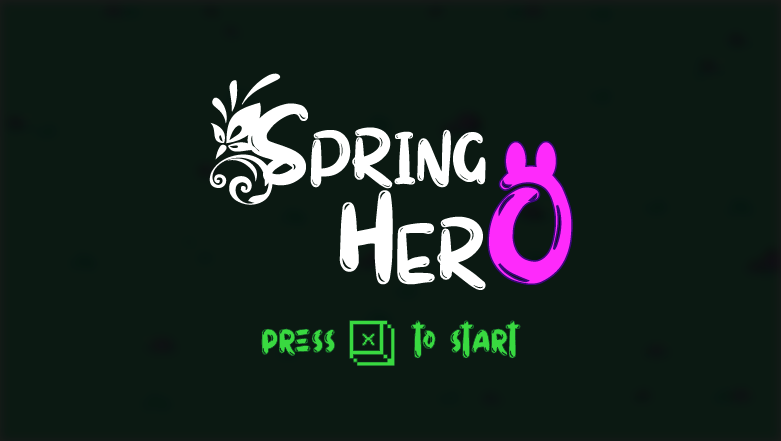
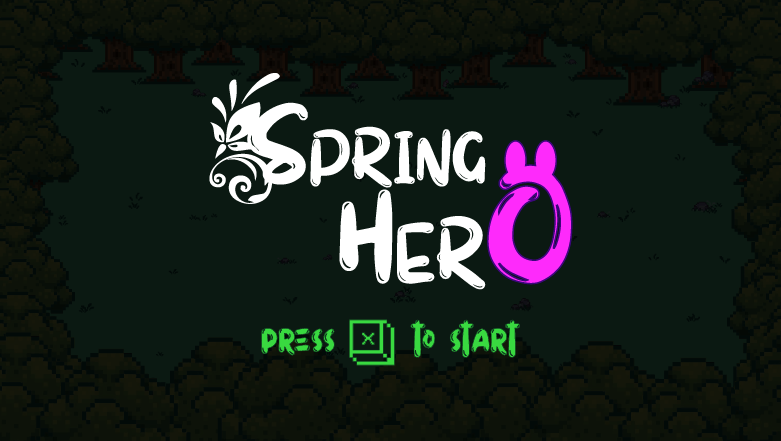
Assets Updated & AttackObject Deleted
- Code reformatted

diff --git a/src/springhero/models/hero/Hero.java b/src/springhero/models/hero/Hero.java
@@ -89,46 +89,40 @@ public class Hero implements Constants, Observable {
             }
         }
     }
-    public boolean attackSprite(Map map,view direction, List<Enemy> enemyList){
-        ImageIcon icon = new ImageIcon();
-        Point detectAttack = new Point(0,0);
 
+    public boolean attack(Map map, view direction, List<Enemy> enemyList) {
+        ImageIcon icon = new ImageIcon();
+        Point detectAttack = new Point(0, 0);
         switch (direction) {
             case UP -> {
                 icon = this.upAttackImg;
-                detectAttack = new Point (this.position.x-1,this.position.y);
+                detectAttack = new Point(this.position.x - 1, this.position.y);
             }
             case DOWN -> {
                 icon = this.downAttackImg;
-                detectAttack = new Point (this.position.x+1,this.position.y);
+                detectAttack = new Point(this.position.x + 1, this.position.y);
             }
             case LEFT -> {
                 icon = this.leftAttackImg;
-                detectAttack = new Point (this.position.x,this.position.y-1);
+                detectAttack = new Point(this.position.x, this.position.y - 1);
             }
             case RIGHT -> {
                 icon = this.rightAttackImg;
-                detectAttack = new Point (this.position.x,this.position.y+1);
+                detectAttack = new Point(this.position.x, this.position.y + 1);
             }
         }
         if (icon.getImage() != null) {
             this.sprite.setIcon(icon);
             this.sprite.setBounds(new Rectangle(this.sprite.getIcon().getIconWidth(), this.sprite.getIcon().getIconHeight()));
             setPosition(map.getCell(this.position));
-
         }
-        for(Enemy enemy: enemyList){
-            System.out.println(" Enemy: " + enemy.getPosition() + " Hero: " + detectAttack);
-            if(enemy.getPosition().equals(detectAttack)){
-                System.out.println();
+        for (Enemy enemy : enemyList) {
+            if (enemy.getPosition().equals(detectAttack)) {
                 enemy.setDefeated(true);
                 return true;
             }
-
-        } return false;
-
-
-
+        }
+        return false;
     }
 
     public boolean move(view direction, Map map) {
@@ -149,9 +143,6 @@ public class Hero implements Constants, Observable {
         }
         return false;
     }
-
-
-
 
     public void attachObserver(PropertyChangeListener newObserver) {
         observerManager.addPropertyChangeListener(newObserver);

diff --git a/src/springhero/controllers/main/SpringHeroController.java b/src/springhero/controllers/main/SpringHeroController.java
@@ -103,15 +103,14 @@ public class SpringHeroController implements Constants, KeyListener {
                 oldMovement = view.RIGHT;
                 heroStateChanged = getSpringHeroHero().move(view.RIGHT, getSpringHeroMap());
             }
-            if (key == KeyEvent.VK_F && oldMovement!=null) {
-                heroStateChanged = getSpringHeroHero().attackSprite( getSpringHeroMap(), oldMovement, getSpringHeroEnemies());
-                new Timer(200,new ActionListener() {
+            if (key == KeyEvent.VK_F && oldMovement != null) {
+                heroStateChanged = getSpringHeroHero().attack(getSpringHeroMap(), oldMovement, getSpringHeroEnemies());
+                new Timer(200, new ActionListener() {
                     public void actionPerformed(ActionEvent e) {
-                        getSpringHeroHero().updateSprite(oldMovement,getSpringHeroMap().getCell(getSpringHeroHero().getPosition()));
-                        ((Timer)e.getSource()).stop();
+                        getSpringHeroHero().updateSprite(oldMovement, getSpringHeroMap().getCell(getSpringHeroHero().getPosition()));
+                        ((Timer) e.getSource()).stop();
                     }
                 }).start();
-
             }
             if (heroStateChanged) {
                 play();

diff --git a/src/springhero/views/main/SpringHeroView.java b/src/springhero/views/main/SpringHeroView.java
@@ -31,7 +31,6 @@ public class SpringHeroView extends JFrame implements Constants {
     private JProgressBar heroHealthBar, alliesRescuedBar, enemiesDestroyedBar;
     private JPanel hud, characters, background;
 
-
     public SpringHeroView(KeyListener keyListener) {
         setIconImage(ICON_IMG.getImage());
         setTitle("Spring Hero");
@@ -125,12 +124,6 @@ public class SpringHeroView extends JFrame implements Constants {
         characters.add(hero.getSprite());
         heroHealthBar.setValue(hero.getHealth());
     }
-//
-//    private void updateHeroAttack(Hero hero) {
-//        if (hero.getRock() != null) {
-//            characters.add(hero.getRock().getSprite());
-//        }
-//    }
 
     private void updateAllies(List<Ally> allies) {
         for (Ally ally : allies) {
@@ -150,7 +143,6 @@ public class SpringHeroView extends JFrame implements Constants {
         characters.removeAll();
         updateHero(hero);
         updateEnemies(enemies);
-        //updateHeroAttack(hero);
         updateAllies(allies);
         characters.repaint();
     }

diff --git a/src/springhero/models/main/Constants.java b/src/springhero/models/main/Constants.java
@@ -44,7 +44,7 @@ public interface Constants {
         UP,
         DOWN,
         LEFT,
-        RIGHT,
+        RIGHT
     }
 
     enum NPCType {
